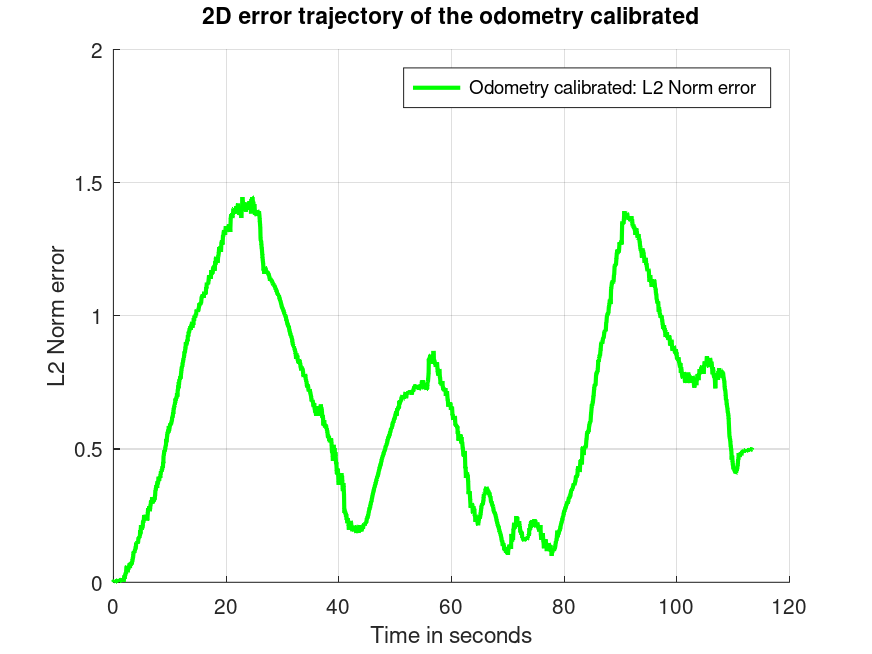
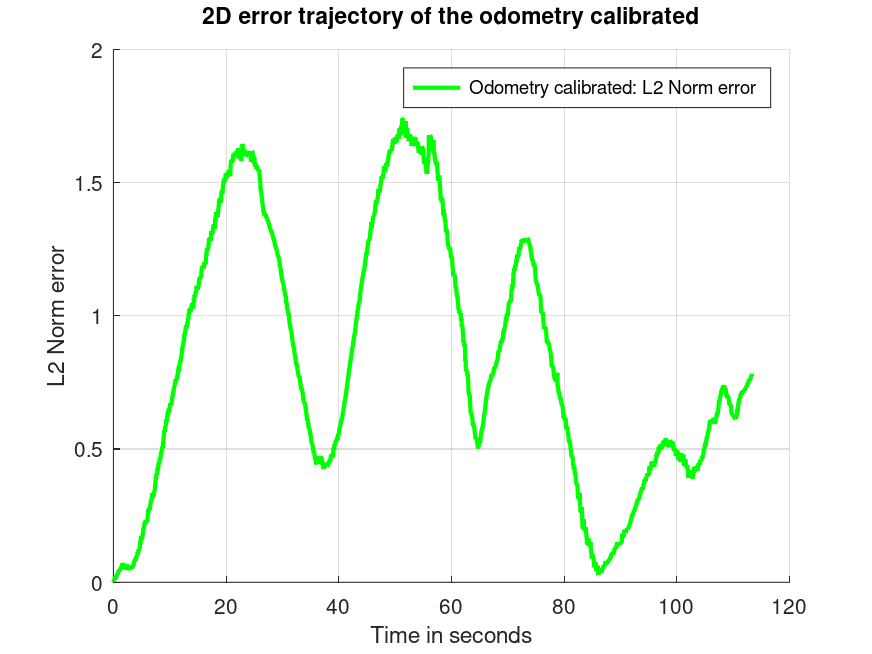
Added: output.txt

diff --git a/main.m b/main.m
@@ -23,6 +23,7 @@ Ktraction = 0.0106141;
 axis_length = 1.4;
 steer_offset = 0;
 
+diary('./output/output.txt'); #to save the output
 #load the dataset and split the data in variables: time, ticks, model_pose and tracker_pose
 disp('Loading the dataset');
 
@@ -46,16 +47,16 @@ delta_time = delta_time(time);
 #odometry of front-tractor tricycle
 x_initial = [Ksteer, Ktraction, axis_length, steer_offset];
 odometry_pose = odometry(x_initial, delta_ticks, delta_time);
-%{
+
 #plot of: odometry, tracker and odometry estimated
 plot_odometry_trajectory(odometry_pose, model_pose, tracker_pose, moving, h, delta_time);
 pause(1);
 #plot of odometry estimated: L2 Norm error
 plot_odometry_error(model_pose, odometry_pose, h, time);
 pause(1);
-%}
+
 odometry_pose = odometry_pose(:, 1:3);
-n_iter = 25;
+n_iter = 18;
 jacobian_type = false; #set true for numerical jacobian and false for analytical jacobian
 [X, laser_params, chi_stats, n_inliers] = odometry_calibration(odometry_pose, tracker_pose, n_iter, jacobian_type);
 
@@ -119,9 +120,10 @@ disp(X);
 fprintf('\nScale factor x: %.4f (%.1f%%)\n', X(1,1), (X(1,1)-1)*100);
 fprintf('Scale factor y: %.4f (%.1f%%)\n', X(2,2), (X(2,2)-1)*100);
 fprintf('Scale factor theta: %.4f (%.1f%%)\n', X(3,3), (X(3,3)-1)*100);
-fprintf('Cross-coupling XY: %.6f\n', X(1,2));
-fprintf('Cross-coupling YX: %.6f\n', X(2,1));
+fprintf('Cross-coupling xy: %.6f\n', X(1,2));
+fprintf('Cross-coupling yx: %.6f\n', X(2,1));
 
 fprintf('\nCalibration verification\n');
 fprintf('Error improvement: %.1f%%\n', (error_before - error_after) / error_before * 100);
 fprintf('Final Chi-square: %.6e\n', chi_stats(end));
+diary off;

diff --git a/robot_calibration/calibration.m b/robot_calibration/calibration.m
@@ -101,7 +101,7 @@ function [X_final, laser_f, chi_stats, n_inliers] = odometry_calibration(odometr
   odometry_inc = new_pose(odometry_pose);
   tracker_inc  = new_pose(tracker_pose);
 
-  state = [reshape(eye(3) + 0.001 * randn(3), [], 1); 1.5; 0; 1];
+  state = [reshape(eye(3), [], 1); 1.5; 0; 1];
   threshold = 0.0000198;
   c = 0.000000002;
   d = 1.2;
